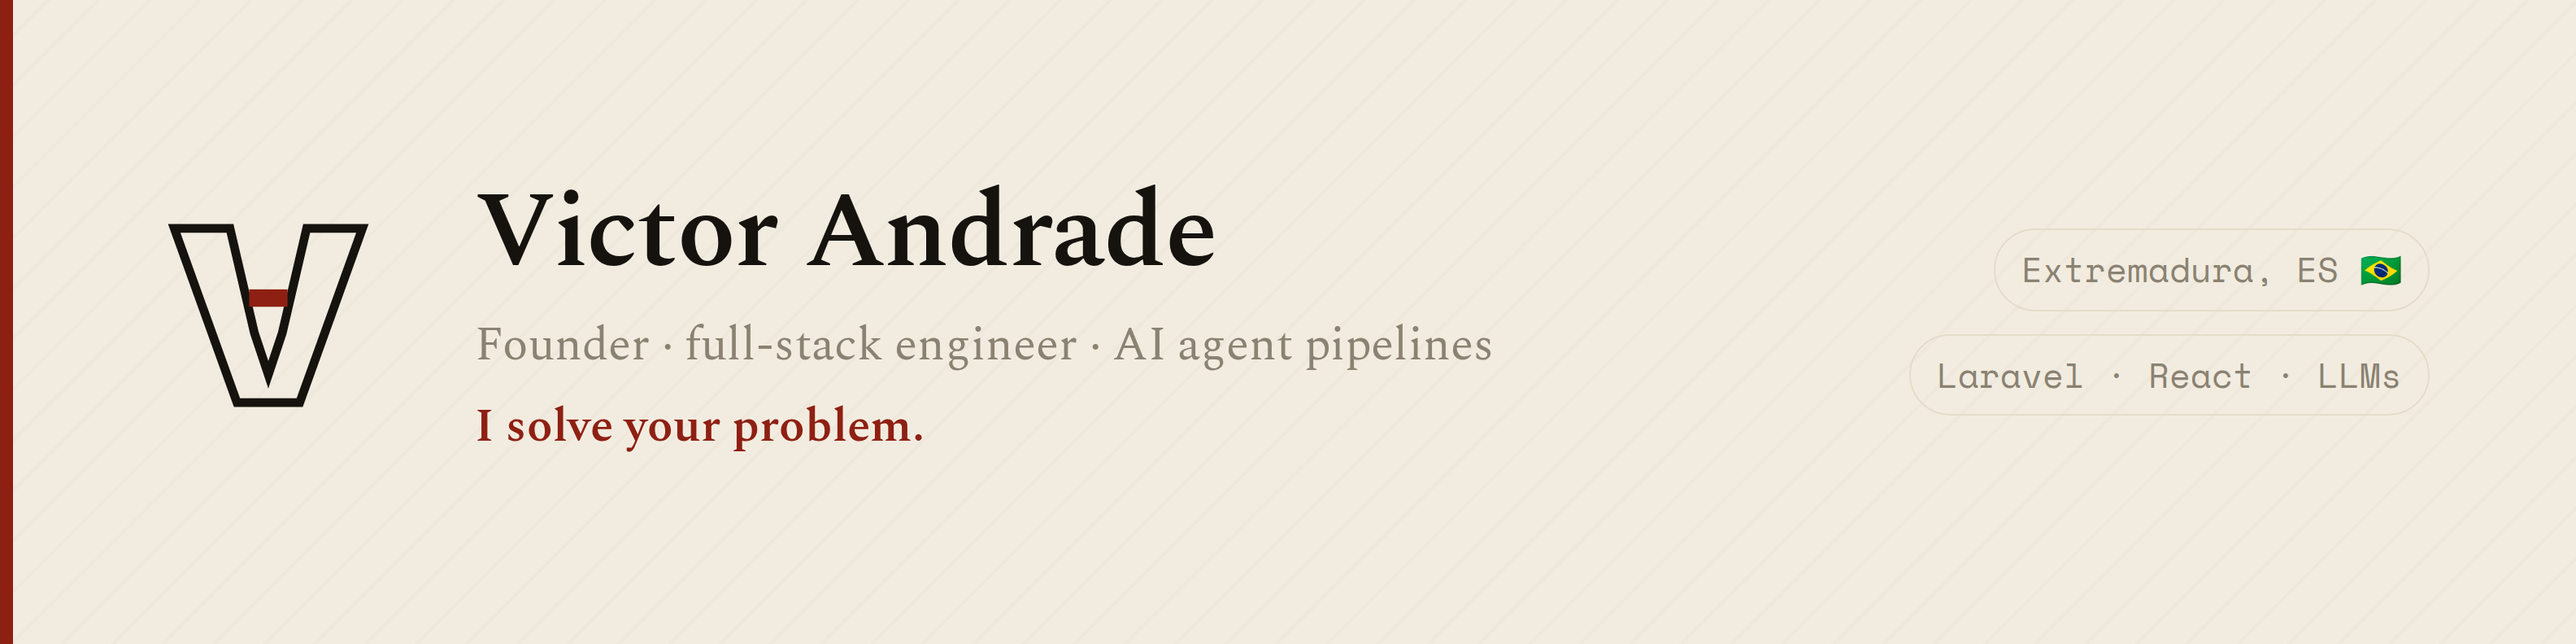
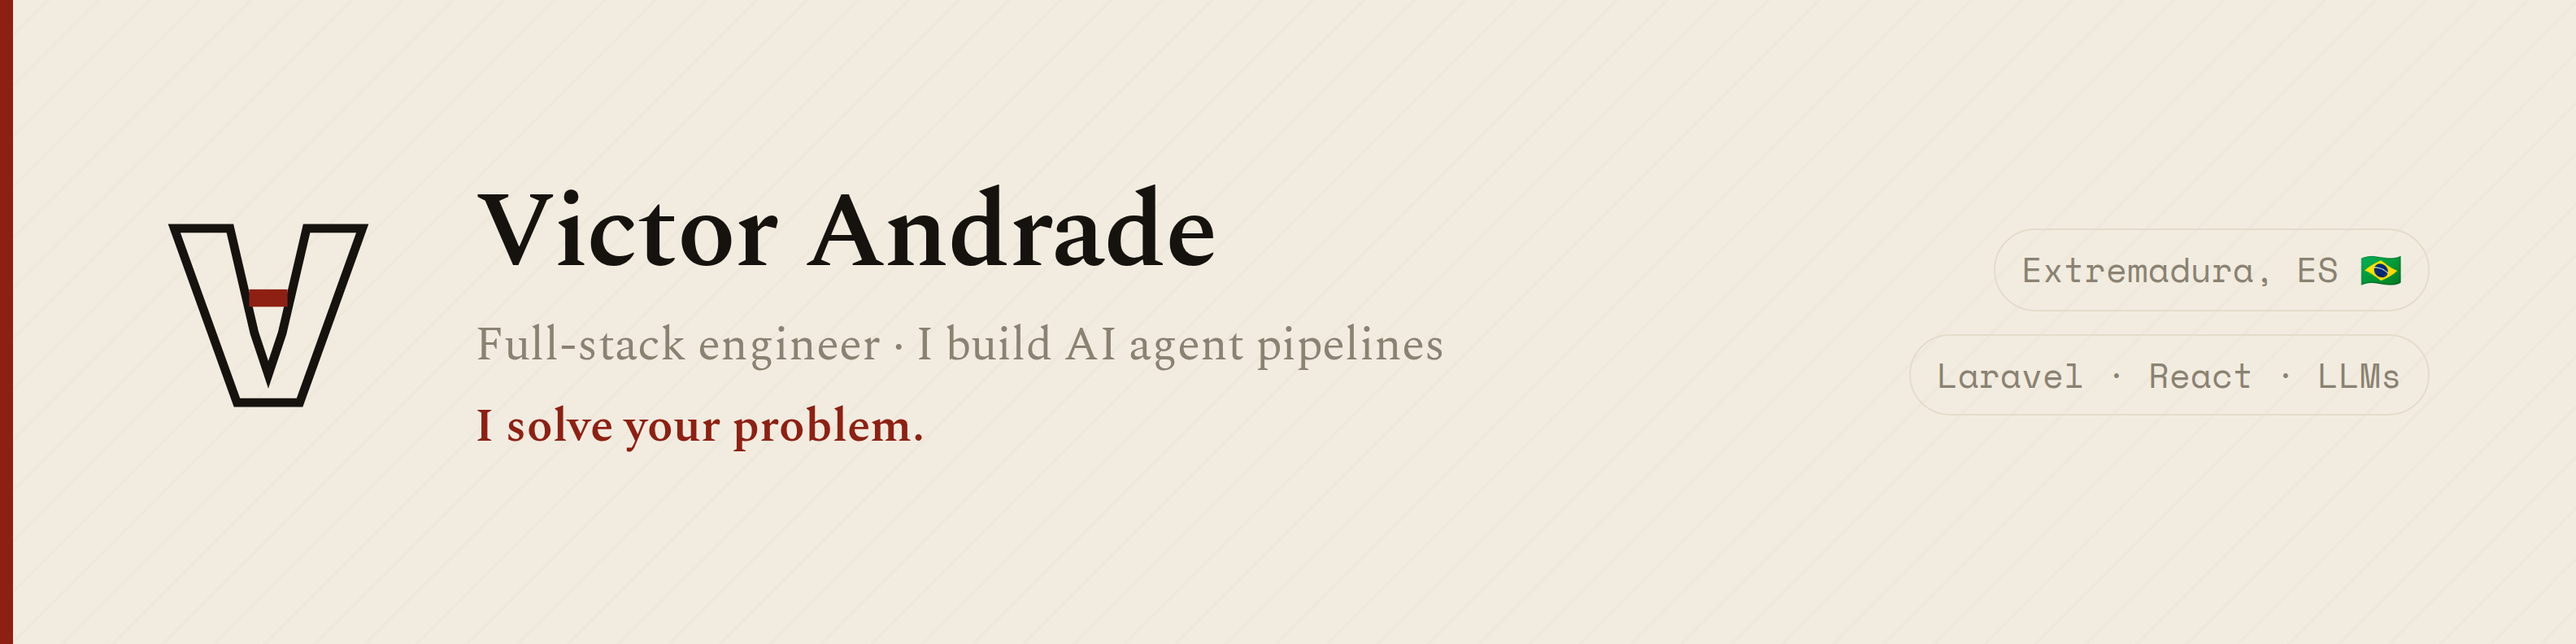
Fix positioning: engineer (not founder) per correction

Changed region(s): [[0.1875, 0.5152, 0.5938, 0.5758]]

diff --git a/README.md b/README.md
@@ -1,16 +1,16 @@
 <p align="center">
-  <img src="./assets/banner.png" alt="Victor Andrade — Founder · full-stack engineer · AI agent pipelines" width="100%" />
+  <img src="./assets/banner.png" alt="Victor Andrade — Full-stack engineer · AI agent pipelines" width="100%" />
 </p>
 
 ## `~/victor $ whoami`
 
-Brazilian dev based in Badajoz, Spain. Founder and full-stack engineer who builds **AI agent pipelines** — because what matters isn't knowing the commands, it's knowing what to do with them.
+Brazilian full-stack engineer based in Badajoz, Spain. I build **AI agent pipelines** — because what matters isn't knowing the commands, it's knowing what to do with them.
 
 I work where product, engineering and AI meet: systems that **automate the boring, not the human**. No magic framework — just architecture and patience.
 
 ## What I build
 
-- **End-to-end SaaS** — Laravel + Inertia/React, from the database to the pixel.
+- **End-to-end product** — Laravel + Inertia/React, from the database to the pixel.
 - **AI agent pipelines** — systems that plan, execute and review code on their own, with a human at the right gates.
 - **Personal automation** — infrastructure that works for me while I sleep.
 
